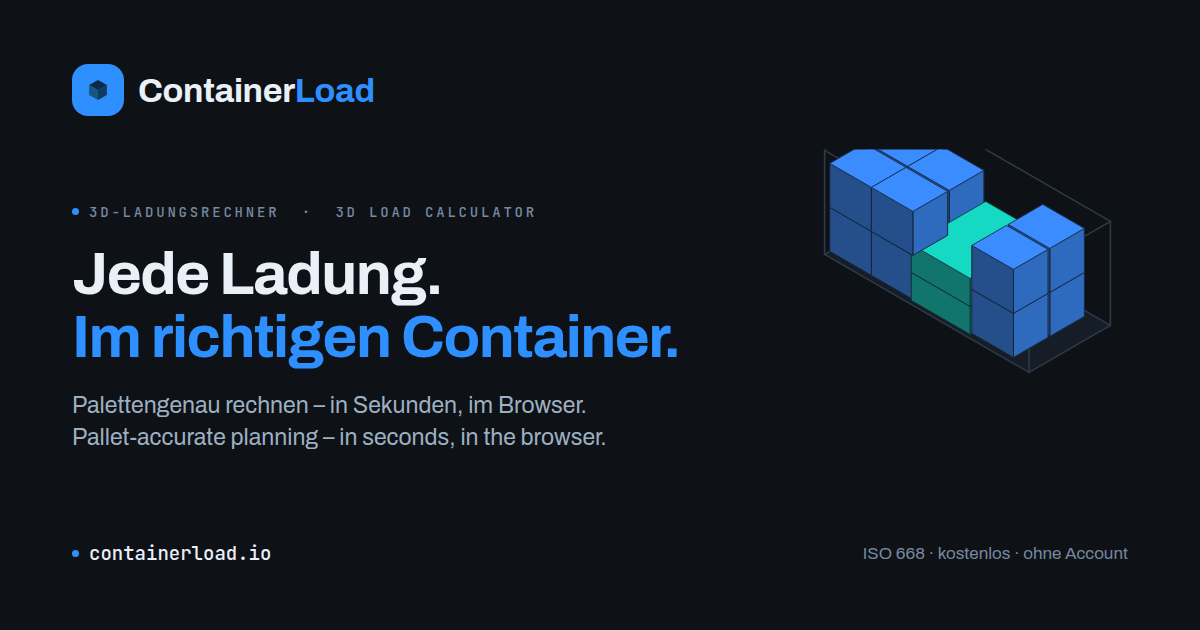
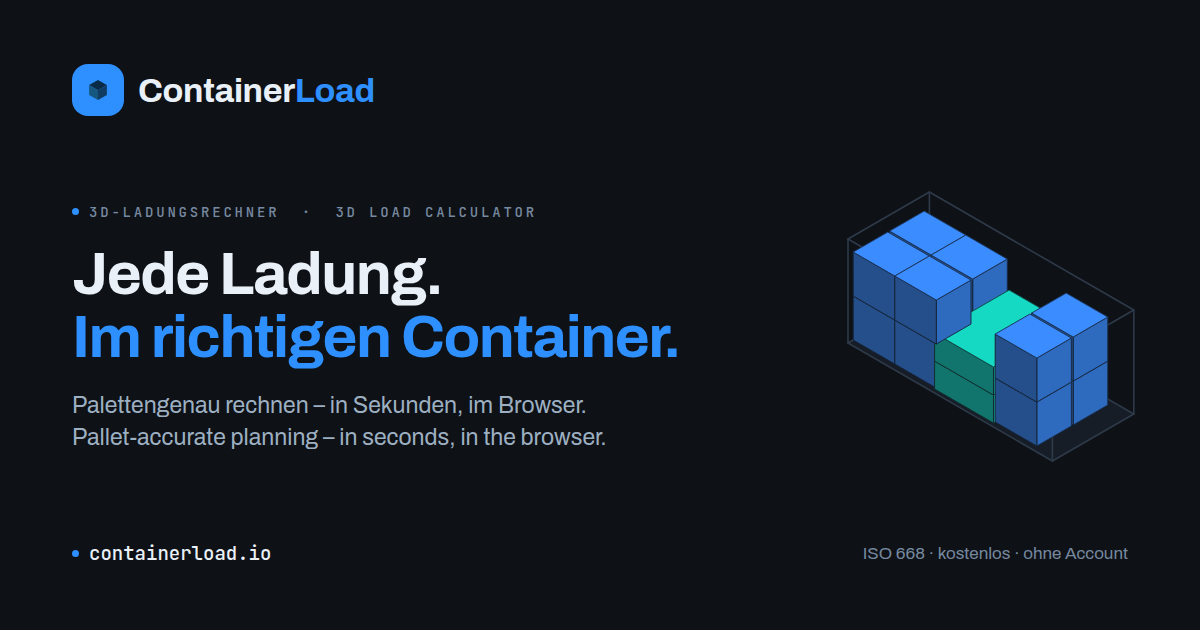
Vorschaubild nicht mehr abgeschnitten, Tuerblaetter aus der 3D-Ansicht
Zwei Meldungen.

1) "der Container ist oben in der Ecke abgeschnitten". Der Zeichenbereich
   der Vorschaubilder stand auf einem festen translate(232,58); die
   hintere Oberkante der Huelle liegt aber bei y = -104 und fiel damit aus
   dem SVG heraus. Jetzt bestimmt die Ausdehnung der acht Huellenecken die
   viewBox -- und width/height dazu, sonst wird die Zeichnung in den alten
   Kasten hineinskaliert und dabei groesser. Beide Karten neu erzeugt.

2) "anfangs wollte ich die Containertuer in der 3D View drinne haben,
   jetzt nerven die mich irgendwie". Die zwei aufgeschwungenen Blaetter
   ragten ueber einen Meter ueber das Containerende hinaus, standen bei
   jeder Drehung als grosse Flaechen im Bild -- und vergroesserten den
   Rahmen, auf den camFit einpasst, sodass die Ladung kleiner gezeichnet
   wurde.

   Geblieben ist, wofuer die Tuer im Bild da war: das Tuerende traegt
   keine Stirnwand (man sieht hinein) und ist mit einer duennen
   Rahmenkante gefasst. Das Praedikat openDoors entscheidet weiterhin,
   welcher Container der Kette so gezeichnet wird. Die Tuerpruefung
   (doorFailCheck, "passt nicht durch die Tueroeffnung") ist eine
   Rechnung und war nie an den Blaettern.

test/tuerfluegel-gate.test.mjs prueft jetzt beide Seiten -- Blaetter weg,
offenes gefasstes Tuerende da. test/vorschaubild.test.mjs verlangt, dass
der Rahmen aus der Geometrie kommt und kein fester Versatz. 362 gruen.

Claude-Session: https://claude.ai/code/session_01MqSXbbzqpvkoZWovmBmkkk

Changed region(s): [[0.6783, 0.2111, 0.9558, 0.7238]]

diff --git a/containerload.io/app.html b/containerload.io/app.html
@@ -4315,44 +4315,21 @@ var __QRLIB=(()=>{var or=(L,T)=>()=>{try{return T||L((T={exports:{}}).exports,T)
             parent.add(w4);
           }
         }
-        // ── Offene Tuerblaetter (nur dry, nur am letzten Container der Kette). Ersetzen die flache w4-Stirnwand am Tuerende (x=CL). ──
+        // ── Das Tuerende bleibt OFFEN, aber ohne Tuerblaetter ──
+        //
+        // Hier standen zwei aufgeschwungene Blaetter (rund 80 Grad nach aussen). Gemeldet:
+        // "anfangs wollte ich die Containertuer in der 3D View drinne haben, jetzt nerven die
+        // mich irgendwie". Zu Recht -- sie ragten ueber einen Meter ueber das Containerende
+        // hinaus, standen bei jeder Kameradrehung als zwei grosse Flaechen im Bild und
+        // vergroesserten den Rahmen, auf den die Kamera einpasst: die Ladung wurde dadurch
+        // kleiner gezeichnet, ohne dass dafuer etwas zu sehen gewesen waere.
+        //
+        // Geblieben ist, wofuer die Tuer im Bild da war: das Tuerende traegt KEINE Stirnwand
+        // (man sieht in den Container hinein) und ist mit einer duennen Rahmenkante gefasst,
+        // damit erkennbar bleibt, an welchem Ende geladen wird. Das Praedikat openDoors
+        // entscheidet weiterhin, welcher Container der Kette so gezeichnet wird -- nur der
+        // letzte; die davor bekommen ihre flache Stirnwand (siehe w4 oben).
         if (kind === "dry" && openDoors) {
-          const DOOR_OPEN = 1.40;  // ~80 Grad -> Blattflaeche zeigt zur Kamera (war 1.95/~112)
-          // Blattfarbe ist zustandsunabhaengig Stahl -- NIE amber (0xffb454 nur an Oeffnungsrahmen + Ghost).
-          const doorMat = new THREE.MeshStandardMaterial({
-            color: STEEL, transparent: true, opacity: 0.22, depthWrite: false,
-            roughness: 0.8, metalness: 0.28, side: THREE.DoubleSide
-          });
-          const geoLeaf = new THREE.PlaneGeometry(CW / 2, CH);
-          const leafEdgeGeo = new THREE.EdgesGeometry(geoLeaf);
-          const leafEdgeMat = new THREE.LineBasicMaterial({ color: FRAME, transparent: true, opacity: 0.7 }); // Stahl, nie amber
-          // Linkes Blatt: Scharnier bei z=0, schwingt nach +x auf.
-          const hingeL = new THREE.Group();
-          hingeL.position.set(CL, cy, 0);
-          const leafL = new THREE.Mesh(geoLeaf, doorMat);
-          leafL.rotation.y = Math.PI / 2;   // in die Tuerebene drehen (wie w4)
-          leafL.position.z = CW / 4;        // Blattmitte; Scharnierkante bei z=0
-          hingeL.add(leafL);
-          const edgeL = new THREE.LineSegments(leafEdgeGeo, leafEdgeMat);
-          edgeL.rotation.y = Math.PI / 2;
-          edgeL.position.z = CW / 4;
-          hingeL.add(edgeL);
-          hingeL.rotation.y = DOOR_OPEN;    // + = nach aussen
-          parent.add(hingeL);
-          // Rechtes Blatt: Scharnier bei z=CW, spiegelbildlich.
-          const hingeR = new THREE.Group();
-          hingeR.position.set(CL, cy, CW);
-          const leafR = new THREE.Mesh(geoLeaf, doorMat);
-          leafR.rotation.y = Math.PI / 2;
-          leafR.position.z = -CW / 4;
-          hingeR.add(leafR);
-          const edgeR = new THREE.LineSegments(leafEdgeGeo, leafEdgeMat);
-          edgeR.rotation.y = Math.PI / 2;
-          edgeR.position.z = -CW / 4;
-          hingeR.add(edgeR);
-          hingeR.rotation.y = -DOOR_OPEN;
-          parent.add(hingeR);
-          // Duenne Rahmenkante am Tuerende (Bezug, damit die offene Oeffnung "gefasst" wirkt)
           const frameGeo = new THREE.EdgesGeometry(new THREE.PlaneGeometry(CW, CH));
           const frameEdge = new THREE.LineSegments(frameGeo, new THREE.LineBasicMaterial({ color: FRAME, transparent: true, opacity: 0.5 }));
           frameEdge.rotation.y = Math.PI / 2;

diff --git a/containerload.io/test/og/karte.html b/containerload.io/test/og/karte.html
@@ -147,7 +147,24 @@
     teile.push(poly([A,B,Cq,D], f));                                          // oben
   });
   var el = document.getElementById("bild");
-  el.innerHTML = `<g transform="translate(232,58)">${teile.join("")}</g>`;
+  // Der Rahmen wird GERECHNET, nicht gesetzt. Vorher stand hier ein festes translate(232,58);
+  // die hintere Oberkante des Containers liegt aber bei y = -104, und genau die schnitt oben
+  // ab -- so gemeldet ("der Container ist oben in der Ecke abgeschnitten"). Wer an Groesse,
+  // Winkel oder Ladung dreht, verschiebt diese Ecke, und ein festes Mass geht wieder daneben.
+  //
+  // Statt einer Zahl also die tatsaechliche Ausdehnung aller acht Huellenecken, plus einem
+  // Rand. viewBox uebernimmt sie; das SVG behaelt seine Kastengroesse und passt den Inhalt ein.
+  const rand = 10;
+  const ecken = [];
+  [0, CL].forEach((x) => [0, CW].forEach((y) => [0, CH].forEach((z) => ecken.push(P(x, y, z)))));
+  const x0 = Math.min(...ecken.map((p) => p[0])) - rand, x1 = Math.max(...ecken.map((p) => p[0])) + rand;
+  const y0 = Math.min(...ecken.map((p) => p[1])) - rand, y1 = Math.max(...ecken.map((p) => p[1])) + rand;
+  // width/height MIT der viewBox setzen, sonst wird die Zeichnung in den alten Kasten
+  // hineinskaliert und dabei groesser -- sie soll aber 1:1 bleiben (1 Einheit = 1 Pixel).
+  el.setAttribute("viewBox", `${x0.toFixed(1)} ${y0.toFixed(1)} ${(x1 - x0).toFixed(1)} ${(y1 - y0).toFixed(1)}`);
+  el.setAttribute("width", (x1 - x0).toFixed(1));
+  el.setAttribute("height", (y1 - y0).toFixed(1));
+  el.innerHTML = teile.join("");
 })();
 </script>
 </body></html>

diff --git a/containerload.io/CLAUDE.md b/containerload.io/CLAUDE.md
@@ -472,6 +472,8 @@ Nebenbei korrigiert: auf der alten Karte stand **„Ein Ladeplan wurde dir getei
 
 Die rechte Bildhälfte ist ausgenommen: dort stehen die **Kennfarben der Packstücke** (`TYPE_COLORS`), und die sind absichtlich bunt — sie tragen Information.
 
+**Der Zeichenbereich wird gerechnet, nicht gesetzt.** Zweite Meldung zur selben Karte: *„der Container ist oben in der Ecke abgeschnitten."* Dort stand ein festes `translate(232,58)`; die hintere Oberkante der Hülle liegt aber bei y = −104 und fiel damit aus dem SVG heraus. Jetzt bestimmt die tatsächliche Ausdehnung der acht Hüllenecken die `viewBox` — **und `width`/`height` dazu**, sonst wird die Zeichnung in den alten Kasten hineinskaliert und dabei größer. Wer an Größe, Winkel oder Ladung dreht, verschiebt genau diese Ecke; eine feste Zahl geht dann wieder daneben.
+
 **Die Ladung ist deckend gezeichnet, die Hülle liegt dahinter.** Erste Fassung: die Seitenflächen waren mit `fill-opacity` abgedunkelt und das Drahtgitter lag über den Kisten — gemeldet als *„Packstücke sind irgendwie weirdly transparent"*, und genau so sah es aus. Abgedunkelt wird jetzt **gerechnet** (`dunkler()` mischt gegen den Grundton, nicht gegen Schwarz — sonst kippen die Flanken ins Graue): oben voll, rechte Flanke 72 %, linke 50 %. Dieselbe Staffelung, die im 3D-Bild das Licht macht, nur ausgerechnet statt beleuchtet. Der Test prüft beides — kein `fill-opacity`-Attribut, und die Hülle steht im Quelltext **vor** den Kisten.
 
 ### Die Container-Kette: zwei Grenzen, zwei Fragen
@@ -517,6 +519,18 @@ Ein 40-Fuß-Container ist 12 m lang. Danach klemmt `zielKlemmen` das Ziel hart a
 Jetzt zwei Stufen: **erst auf die Kisten selbst schießen** (nur `isInstancedMesh` — Hüllen, Boden und Raster sind Linien und Flächen, die der Strahl weit außerhalb der Reihe trifft), und nur wenn das nichts trifft, auf die Bodenebene — und die auch nur, solange der Punkt zur Reihe gehört (`imRahmen`). Zeigt der Zeiger ins Leere, **passiert nichts**; das ist hier die richtige Antwort, denn der Nutzer hat auf nichts gezeigt.
 
 `imRahmen` und `zielKlemmen` benutzen **denselben Auslauf** (`m = 2`). Zwei verschiedene Maße wären genau die Art Abweichung, die später niemand mehr erklären kann: das Ziel dürfte an eine Stelle springen, an der es nicht bleiben darf. `test/kamera-schieben.test.mjs` hält beides fest — den Vertrag im Quelltext **und** die Rechnung, die den Fehler erklärt (sie liest Bildwinkel, Ruhelage und Zoomschritt aus `app.html`, damit sie nicht stillschweigend veraltet).
+
+### Die 3D-Ansicht zeigt kein Türblatt mehr
+Am Türende des letzten Containers standen zwei aufgeschwungene Türblätter (rund 80°). Gemeldet: *„anfangs wollte ich die Containertür in der 3D View drinne haben, jetzt nerven die mich irgendwie."*
+
+Drei Gründe, warum das Entfernen richtig ist und nicht nur Geschmack:
+- Sie ragten **über einen Meter** über das Containerende hinaus und standen bei jeder Kameradrehung als zwei große Flächen im Bild.
+- Sie **vergrößerten den Rahmen**, auf den `camFit` einpasst — die Ladung wurde dadurch kleiner gezeichnet, ohne dass dafür etwas zu sehen gewesen wäre.
+- Was sie sagen sollten, sagt das Türende ohnehin selbst.
+
+**Geblieben ist genau das:** das Türende trägt **keine Stirnwand** (man sieht in den Container hinein) und ist mit einer dünnen Rahmenkante gefasst, damit erkennbar bleibt, an welchem Ende geladen wird. Das Prädikat `openDoors = (ci === chain.length - 1)` entscheidet weiterhin, welcher Container der Kette so gezeichnet wird — die davor bekommen ihre flache Stirnwand. `test/tuerfluegel-gate.test.mjs` prüft beide Seiten: dass die Blätter weg sind (`DOOR_OPEN`, Scharniere, Blattgeometrie) **und** dass das offene, gefasste Türende steht.
+
+**Die Türprüfung bleibt davon unberührt.** `doorFailCheck` und die Warnung „passt nicht durch die Türöffnung" sind eine Rechnung, kein Bild — sie hingen nie an den Blättern.
 
 ### Volumen und Gewicht je Container
 Die Leiste nennt immer nur C1 (und sagt es dazu), das Bild nennt die Summe. Dazwischen fehlte die Frage, die beim Buchen zählt: *wie voll ist eigentlich der zweite?* Jeder Container hat seine eigene Zuladung und wird einzeln gestellt. In der Details-Schublade steht deshalb eine Zeile je Container: **Verladen · Volumen · Gewicht · Voll**, gerechnet aus derselben Quelle wie das Bild (den `placed`-Listen der Kette).
